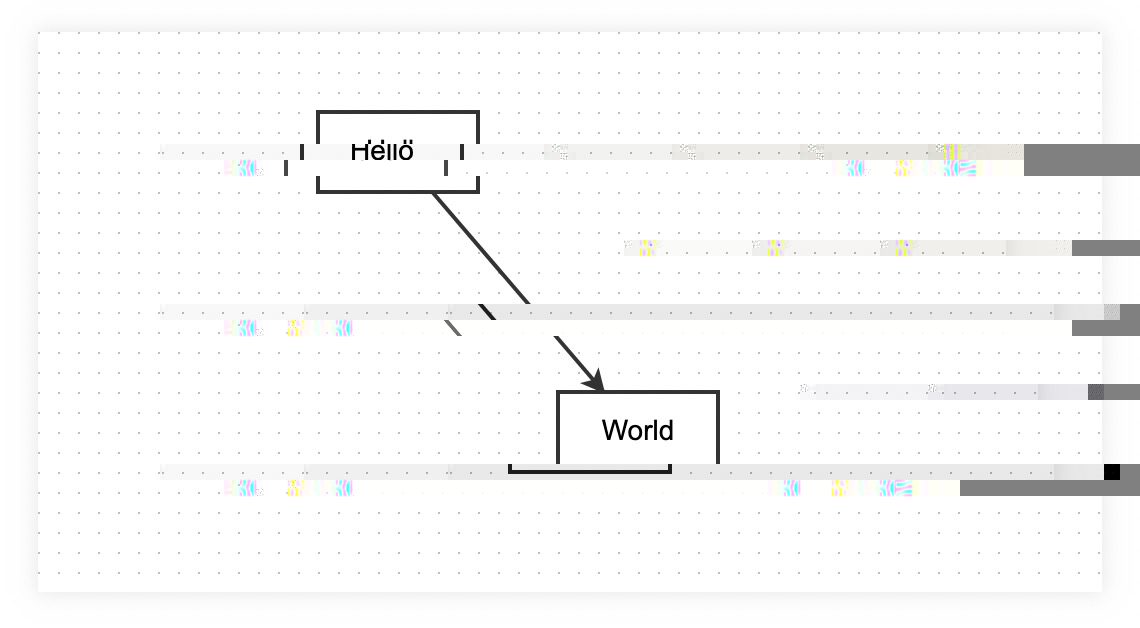
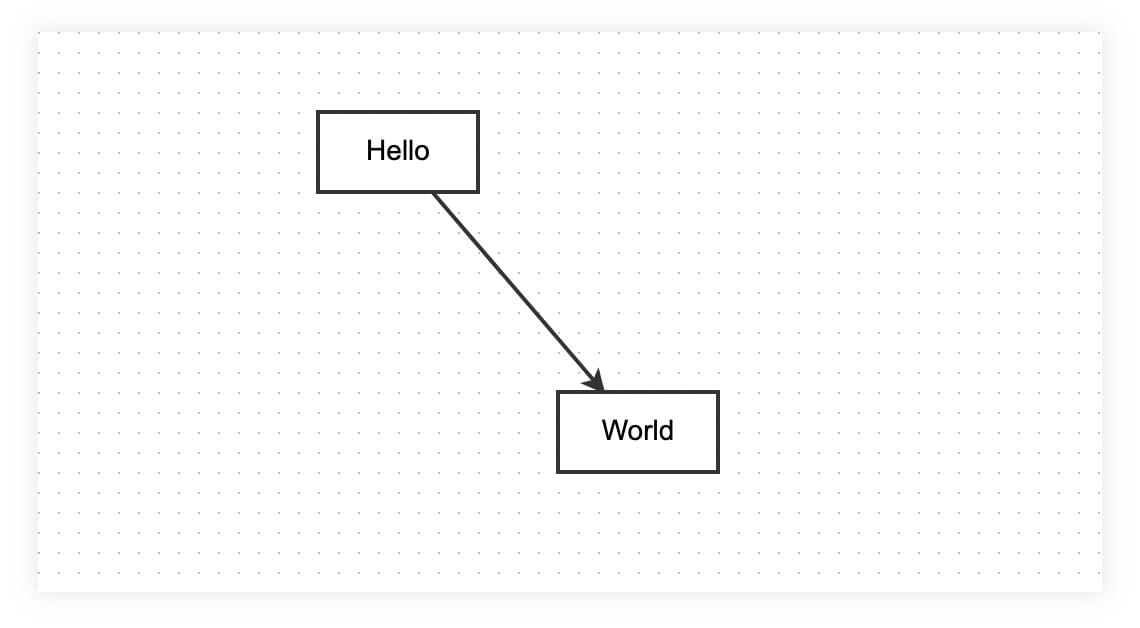
docs: 📚 fix broken image

diff --git a/README.md b/README.md
@@ -81,7 +81,7 @@ graph.addEdge({
 })
 ```
 
-<img src="https://raw.githubusercontent.com/antvis/x6/master/sites/x6-sites/static/assets/images/hello-world.png" alt="HelloWorld" width="541" />
+<img src="https://raw.githubusercontent.com/antvis/x6/master/sites/x6-sites/static/assets/images/hello-world.jpg" alt="HelloWorld" width="541" />
 
 
 ## Documentation
